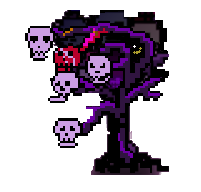
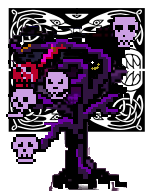
Flip hero to face geaga.

diff --git a/src/components/baile/baile.css b/src/components/baile/baile.css
@@ -17,7 +17,6 @@
   position: fixed;
   top: 25%;
   left: 56%;
-
 }
 
 
@@ -128,7 +127,9 @@ p {
 }
 
 #hero {
-  /* opacity: 50%; */
+  transform:  scale(2) rotateY(180deg);
+
+  
   /* border-radius: 50%; */
 }
 
@@ -676,6 +677,9 @@ p {
 	z-index: 45;
   outline: solid 3px rgba(83, 60, 90) !important; 
 }
+
+
+.select-options,
 .start-options{
 /* border: 4px solid blue; */
 height:200px;
@@ -687,7 +691,8 @@ justify-content: space-evenly;
 display:none;
 top:5%;
 }
-.start-options-button{
+
+.select-options-button, .start-options-button{
   font-size: 1em;
   width:100%;
   color:powderblue;
